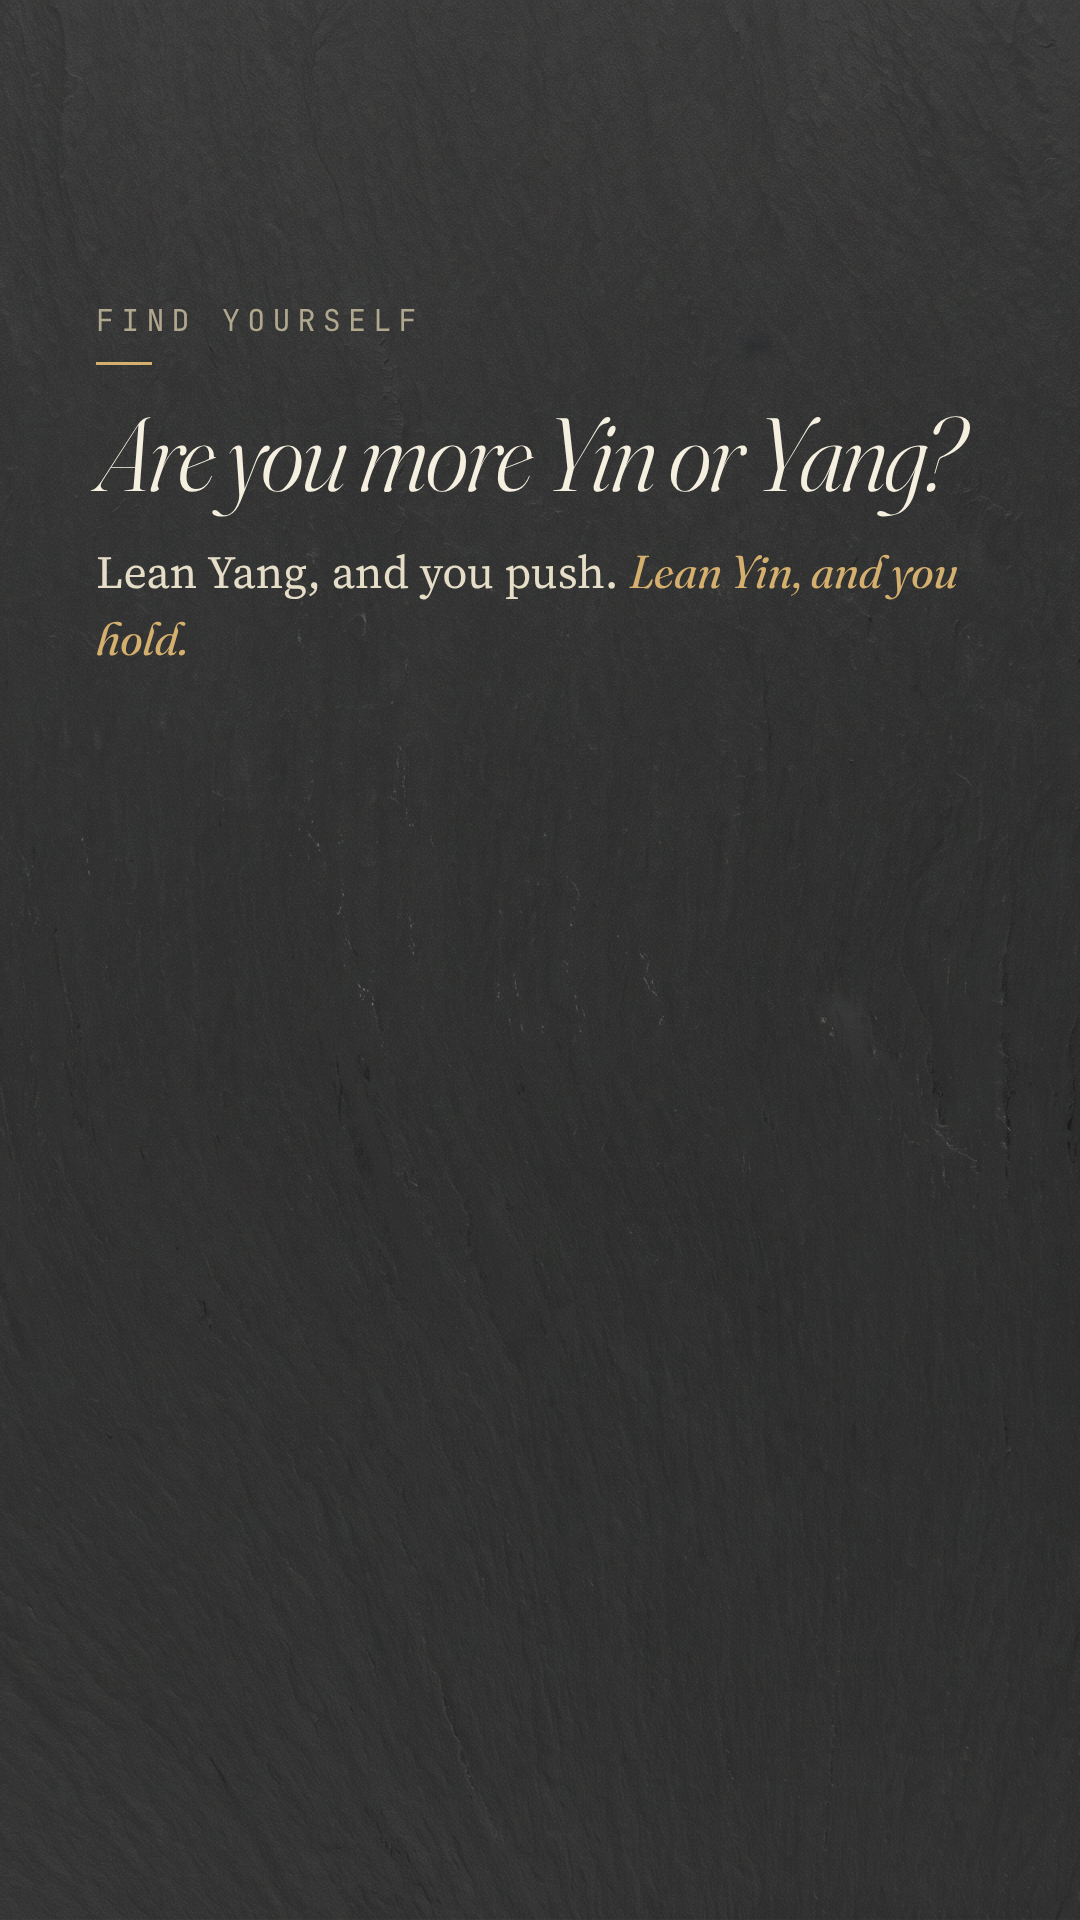
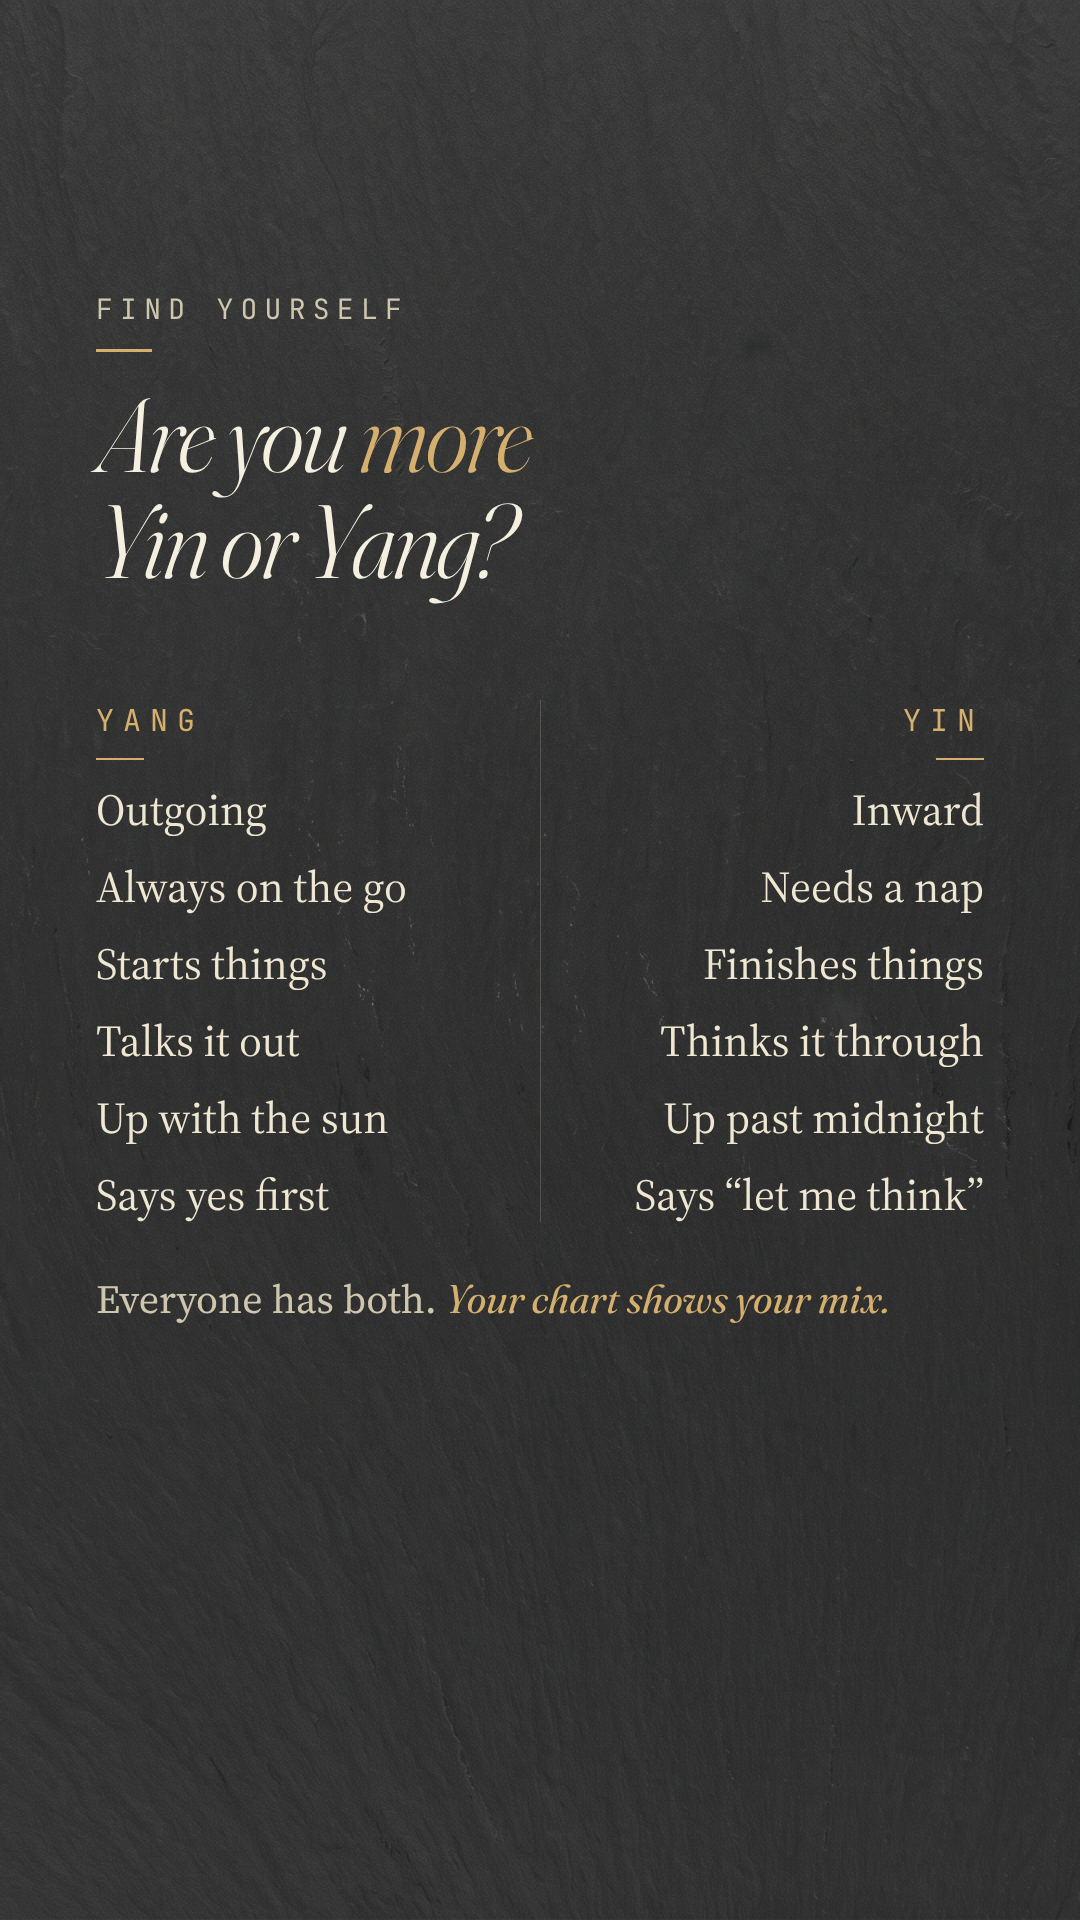
Story Nov 27 poll: Yin and Yang qualities list (Ryan)
Claude-Session: https://claude.ai/code/session_015jTJxM8dp5Kg3SoSqQjrAk

diff --git a/engine3/stories_extra/2026-11-27_yin-yang-qualities.py b/engine3/stories_extra/2026-11-27_yin-yang-qualities.py
@@ -1,0 +1,16 @@
+import sys
+sys.path.insert(0,'/home/claude/ourkai-media/engine3'); sys.path.insert(0,'/home/claude/ourkai-media/engine3/reels')
+from cardlib import render
+G='#d4af6e'; INK='#f5efe0'; SOFT='#cfc6ae'
+yang=['Outgoing','Always on the go','Starts things','Talks it out','Up with the sun','Says yes first']
+yin=['Inward','Needs a nap','Finishes things','Thinks it through','Up past midnight','Says “let me think”']
+def col(title,items,align):
+    li=''.join(f'<div style="font-family:\'oK Source Serif\';font-size:44px;line-height:1.25;color:#efe7d2;margin-top:22px">{x}</div>' for x in items)
+    return f'<div style="flex:1;text-align:{align}"><div class="k" style="color:{G};font-size:30px;letter-spacing:.3em">{title}</div><div style="width:48px;height:2px;background:{G};margin:18px 0 0 {"auto" if align=="right" else "0"}"></div>{li}</div>'
+html=(f'<img src="file:///home/claude/work/bg/slate.png" style="position:absolute;inset:0;width:100%;height:100%;object-fit:cover">'
+ f'<div class="blk" style="top:290px"><div class="k" style="color:{SOFT};font-size:28px;letter-spacing:.26em">FIND YOURSELF</div>'
+ f'<div style="width:56px;height:3px;background:{G};margin:22px 0 30px"></div>'
+ f'<div class="h" style="color:{INK};font-size:104px;line-height:1.02">Are you <span style="color:{G}">more</span><br>Yin or Yang?</div></div>'
+ f'<div style="position:absolute;left:96px;right:96px;top:700px;display:flex;gap:40px">{col("YANG",yang,"left")}<div style="width:1px;background:rgba(245,239,224,.18)"></div>{col("YIN",yin,"right")}</div>'
+ f'<div class="blk" style="top:1270px"><div class="b" style="color:{SOFT};font-size:40px;margin:0">Everyone has both. <span class="a" style="color:{G}">Your chart shows your mix.</span></div></div>')
+render({'1':html},'/home/claude/scratch/yy/f')
